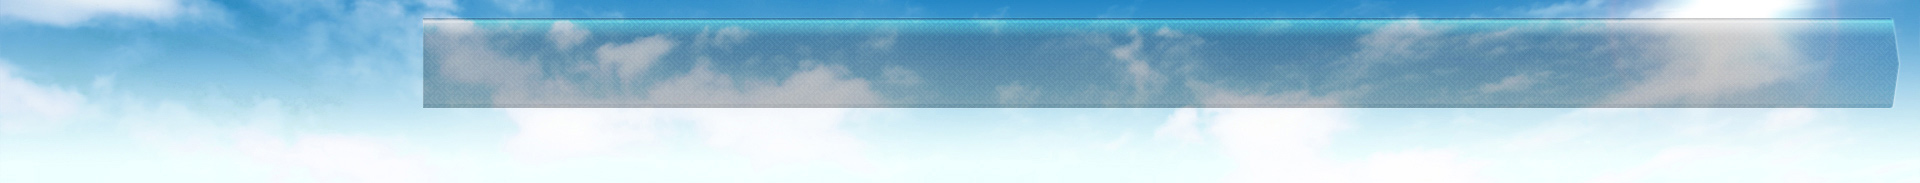
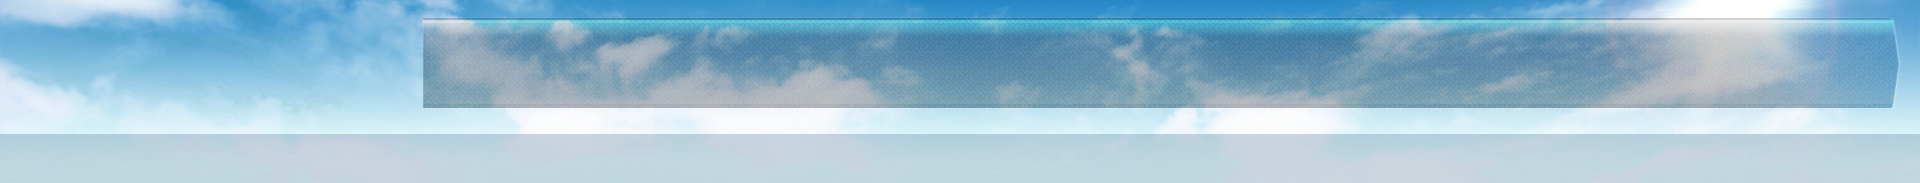
Second part of header styles.

Changed region(s): [[0.0, 0.7104, 1.0, 1.0]]

diff --git a/poptavka-web/src/main/java/com/eprovement/poptavka/resources/poptavka-base.css b/poptavka-web/src/main/java/com/eprovement/poptavka/resources/poptavka-base.css
@@ -6,10 +6,16 @@
  * @author Jaro
  *
  */
+html {
+	background: url(images/content_bg.jpg) repeat;
+}
+
 body {
 	margin: 0;
-	background: url(images/body_bg.jpg) no-repeat top left #000000;
+	padding: 0;
+	background: url(images/body_bg.jpg) no-repeat top right transparent;
 	min-width: 1280px;
+	height: 100%;
 }
 
 body > div {
@@ -21,7 +27,7 @@ body > div {
 	padding: 0;
 	width: 100%;
 	height: 100%;
-	background: url(images/main_bg.jpg) no-repeat top left #ffffff;
+	background: transparent;
 }
 
 .body-container {
@@ -69,7 +75,7 @@ body > div {
 }
 
 .header-content {
-    height: 100px;
+    height: 75px;
     margin: 0;
     padding: 0;
     position: absolute;
@@ -83,7 +89,7 @@ body > div {
 *
 */
 .toolbar {
-	background: url(images/nav-bar.png) repeat-x left top;
+
 }
 
 .toolbar-header {
@@ -98,7 +104,7 @@ body > div {
 }
 
 .toolbar-items-block {
-	margin: 7px 0 0;
+	margin: 9px 0 0;
 	float: left;
 }
 
@@ -151,15 +157,14 @@ body > div {
 
 .home-menu li button {
 	width: 95px;
-	height: 73px;
+	height: 90px;
 	line-height: 15px;
 	border: none;
 	color: #f4f4f4;
 	font-size: 13px;
 	font-weight: bold;
-	text-shadow: 1px 3px 3px #03272a;
 	text-align: center;
-	padding: 21px 0 0;
+	padding: 30px 0 0;
 }
 
 .home-menu li button:hover {
@@ -177,27 +182,18 @@ body > div {
 	color: #f4f4f4;
 }
 
-.home-logo {
+/*
+*	Logo Styles
+*
+*/
+
+.home-logo, .user-logo {
     background: url(images/logo.png) no-repeat scroll 0 0 transparent;
     height: 112px;
     position: absolute;
     top: 11px;
     width: 235px;
     z-index: 150;
-}
-
-/*
-*	User Menu Styles
-*
-*/
-.user-logo {
-	float: left;
-	height: 105px;
-	line-height: 105px;
-	margin: 0;
-	padding: 0;
-	text-align: center;
-	width: 180px;
 }
 
 /*
@@ -208,7 +204,7 @@ body > div {
     background: url(images/search_bg.png) no-repeat scroll 0 0 transparent;
     float: left;
     height: 76px;
-    margin: 16px 20px 0;
+    margin: 26px 0 0 20px;
     width: 203px;
 }
 
@@ -244,7 +240,7 @@ body > div {
 */
 .login {
 	float: right;
-	margin: 27px 30px 0 15px;
+	margin: 26px 30px 0 15px;
 	z-index: 150;
 }
 

diff --git a/poptavka-web/src/main/java/com/eprovement/poptavka/resources/standartStyles.css b/poptavka-web/src/main/java/com/eprovement/poptavka/resources/standartStyles.css
@@ -384,6 +384,7 @@ a,a:visited,a:hover {
 
 .gwt-MenuBarPopup {
 	margin: 0px 0px 0px 3px;
+	min-width: 30px;
 }
 
 .gwt-MenuBarPopup .menuPopupTopCenter {
@@ -1370,4 +1371,8 @@ td.datePickerMonth {
 	z-index: 10000;
 	min-width: 0;
 	background: #ff0000;
+}
+
+.modal {
+	min-width: 200px;
 }
